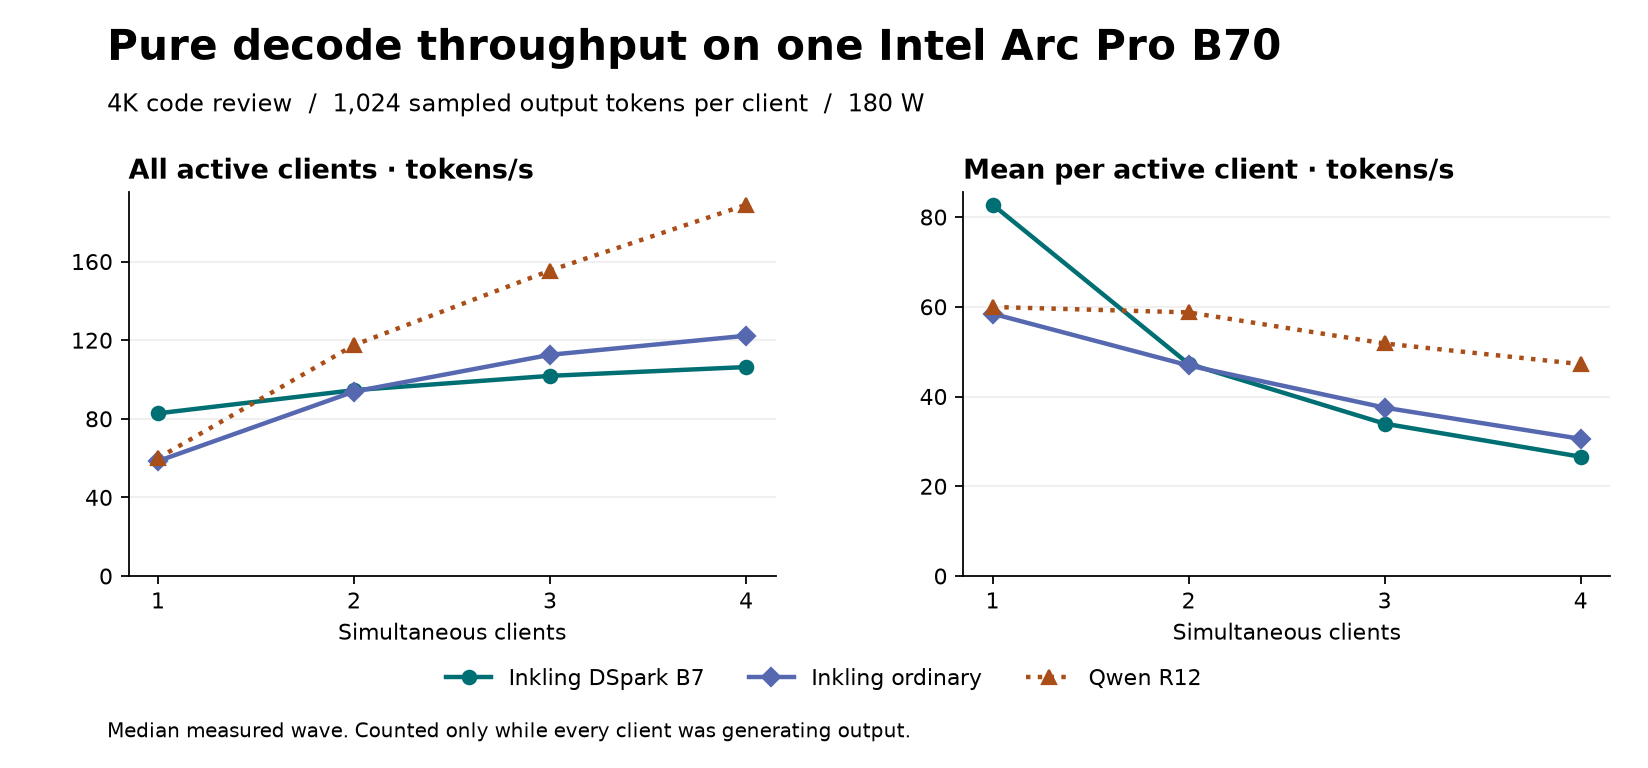
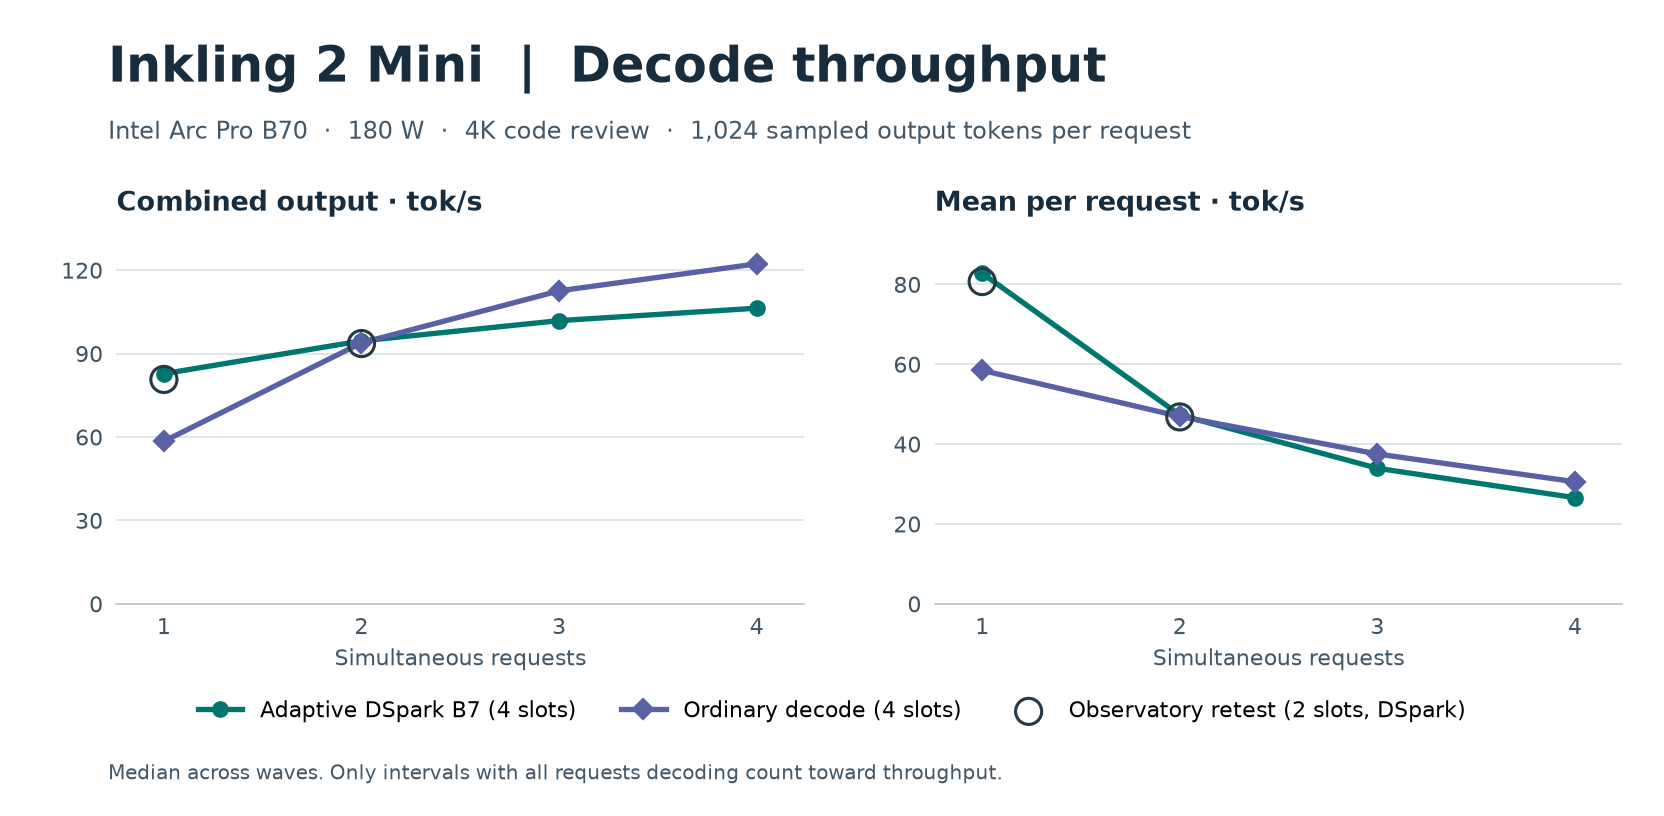
Chart Inkling decode scaling and qualify the two-slot Observatory profile

diff --git a/scripts/report-serving-batch.py b/scripts/report-serving-batch.py
@@ -14,14 +14,17 @@ SCENARIOS = ["phase-4k-c1", *(f"concurrency-4k-c{n}" for n in (2, 3, 4))]
 ARCHIVE = ROOT / "benchmarks/2026-11-23/serving/waves.json"
 
 
-def extract(ordinary, dspark, qwen):
+def extract(ordinary, dspark, qwen, two_slot=None):
     read_wave = run_path(str(ROOT / "scripts/report-serving-matrix.py"))["read_wave"]
     archived = json.loads(ARCHIVE.read_text())["measured"]["Inkling"]
     references = [w for w in archived if w["scenario"] in SCENARIOS]
     if len(references) != 14:
         raise ValueError("Expected five C1 waves and three at C2, C3 and C4")
     profiles, receipts = {}, {}
-    for label, folder in (("Inkling ordinary", ordinary), ("Inkling DSpark B7", dspark), ("Qwen R12", qwen)):
+    folders = {"Inkling ordinary": ordinary, "Inkling DSpark B7": dspark, "Qwen R12": qwen}
+    if two_slot is not None:
+        folders["Observatory DSpark B7"] = two_slot
+    for label, folder in folders.items():
         waves = []
         if label != "Qwen R12":
             run = json.loads((folder / "manifest.json").read_text())
@@ -31,7 +34,11 @@ def extract(ordinary, dspark, qwen):
                                    checkout_head_at_start=receipt["recipe_revision"],
                                    max_num_seqs=run["container"]["max_num_seqs"],
                                    num_speculative_tokens=run["container"]["num_speculative_tokens"])
+            if receipts[label]["max_num_seqs"] != (2 if label == "Observatory DSpark B7" else 4):
+                raise ValueError(f"Unexpected worker capacity in {folder}")
         for ref in references:
+            if label == "Observatory DSpark B7" and ref["scenario"] not in SCENARIOS[:2]:
+                continue
             name = f"{ref['scenario']}-r{ref['repeat']}"
             wave_dir = folder / name if label == "Qwen R12" else folder / "matrix" / name
             source = read_wave(wave_dir)
@@ -51,30 +58,41 @@ def draw(data, path):
     import matplotlib
     matplotlib.use("Agg")
     import matplotlib.pyplot as plt
-    from matplotlib.ticker import MaxNLocator
+    from matplotlib.ticker import MultipleLocator
 
-    fig, axes = plt.subplots(1, 2, figsize=(10.3, 4.8))
-    fig.subplots_adjust(left=.078, right=.977, top=.75, bottom=.25, wspace=.29)
-    fig.text(.065, .922, "Pure decode throughput on one Intel Arc Pro B70", fontsize=19, weight="bold")
-    fig.text(.065, .855, "4K code review  /  1,024 sampled output tokens per client  /  180 W", fontsize=11)
-    styles = [("Inkling DSpark B7", "#006f73", "o", "-"), ("Inkling ordinary", "#5668b0", "D", "-"),
-              ("Qwen R12", "#a94e18", "^", ":")]
+    fig, axes = plt.subplots(1, 2, figsize=(10.4, 5.1))
+    fig.subplots_adjust(left=.07, right=.975, top=.72, bottom=.26, wspace=.19)
+    fig.text(.065, .90, "Inkling 2 Mini  |  Decode throughput", fontsize=22, weight="bold", color="#172c3c")
+    fig.text(.065, .83, "Intel Arc Pro B70  ·  180 W  ·  4K code review  ·  1,024 sampled output tokens per request",
+             fontsize=11, color="#435767")
+    styles = [("Inkling DSpark B7", "Adaptive DSpark B7 (4 slots)", "#00766f", "o"),
+              ("Inkling ordinary", "Ordinary decode (4 slots)", "#5a60a6", "D")]
     for ax, field, title in zip(axes, ("aggregate_decode_tps", "mean_decode_tps_per_client"),
-                                ("All active clients · tokens/s", "Mean per active client · tokens/s")):
-        for label, color, marker, line in styles:
-            waves = data["profiles"][label]
+                                ("Combined output", "Mean per request")):
+        for key, legend, color, marker in styles:
+            waves = data["profiles"][key]
             rates = [median(w[field] for w in waves if w["scenario"] == name) for name in SCENARIOS]
-            ax.plot(range(1, 5), rates, color=color, marker=marker, linestyle=line, lw=2, label=label)
-        ax.set_title(title, loc="left", weight="bold", fontsize=12)
+            ax.plot(range(1, 5), rates, color=color, marker=marker, lw=2.4, ms=6.5, label=legend)
+        if "Observatory DSpark B7" in data["profiles"]:
+            waves = data["profiles"]["Observatory DSpark B7"]
+            rates = [median(w[field] for w in waves if w["clients"] == n) for n in (1, 2)]
+            ax.scatter([1, 2], rates, s=138, facecolors="none", edgecolors="#263a45",
+                       linewidths=1.4, zorder=4, label="Observatory retest (2 slots, DSpark)")
+        ax.set_title(title + " · tok/s", loc="left", weight="bold", fontsize=12, color="#172c3c", pad=8)
         ax.set_xticks(range(1, 5))
-        ax.set_xlabel("Simultaneous clients")
-        ax.set_ylim(bottom=0)
-        ax.yaxis.set_major_locator(MaxNLocator(5))
-        ax.spines[["top", "right"]].set_visible(False)
-        ax.grid(axis="y", alpha=.2)
+        ax.set_xlim(.76, 4.24)
+        ax.set_xlabel("Simultaneous requests", color="#435767")
+        ax.set_ylim(0, 135 if field == "aggregate_decode_tps" else 94)
+        ax.yaxis.set_major_locator(MultipleLocator(30 if field == "aggregate_decode_tps" else 20))
+        ax.spines[["top", "right", "left"]].set_visible(False)
+        ax.spines["bottom"].set_color("#bac8cf")
+        ax.tick_params(axis="both", length=0, pad=6, colors="#41535f")
+        ax.set_axisbelow(True)
+        ax.grid(axis="y", color="#dce4e8")
     fig.legend(*axes[0].get_legend_handles_labels(), loc="lower center",
-               bbox_to_anchor=(.5, .075), ncol=3, frameon=False)
-    fig.text(.065, .04, "Median measured wave. Counted only while every client was generating output.", fontsize=9)
+               bbox_to_anchor=(.5, .09), ncol=3, frameon=False)
+    fig.text(.065, .045, "Median across waves. Only intervals with all requests decoding count toward throughput.",
+             fontsize=9, color="#435767")
     fig.savefig(path, dpi=160)
     plt.close(fig)
 
@@ -84,13 +102,16 @@ if __name__ == "__main__":
     p.add_argument("--ordinary", type=Path)
     p.add_argument("--dspark", type=Path)
     p.add_argument("--reference-run", type=Path)
+    p.add_argument("--two-slot", type=Path, help="Optional DSpark production retest on a two-slot worker.")
     p.add_argument("--out", type=Path, default=ROOT / "benchmarks/2026-11-23/batching")
     args = p.parse_args()
     raw = (args.ordinary, args.dspark, args.reference_run)
     if any(raw) and not all(raw):
         p.error("Provide all three raw run directories or none")
+    if args.two_slot and not all(raw):
+        p.error("--two-slot requires the raw run directories")
     args.out.mkdir(exist_ok=True, parents=True)
     dest = args.out / "waves.json"
     if all(raw):
-        dest.write_text(json.dumps(extract(*raw), indent=2) + "\n")
+        dest.write_text(json.dumps(extract(*raw, args.two_slot), indent=2) + "\n")
     draw(json.loads(dest.read_text()), args.out / "serving-4k.png")

diff --git a/scripts/bench-serving-matrix.py b/scripts/bench-serving-matrix.py
@@ -102,16 +102,21 @@ def main():
     parser.add_argument("--container", default="inkling2-vllm-exl3")
     subset = parser.add_mutually_exclusive_group()
     subset.add_argument("--batching-4k", action="store_true",
-                        help="Report pure decode at 4K with one through four simultaneously generating clients.")
+                        help="Report pure decode at 4K from one client up to the configured slot count.")
+    parser.add_argument("--batching-slots", choices=(2, 4), type=int,
+                        help="Worker slots for the 4K sweep (default: 4).")
     subset.add_argument(
         "--isolated-prefix",
         action="store_true",
         help="Only the three 64K cold/warm requests; start a fresh engine first.",
     )
-    parser.add_argument("--ordinary", action="store_true", help="Use ordinary decode for the four-slot 4K sweep.")
+    parser.add_argument("--ordinary", action="store_true", help="Use ordinary decode for the 4K batching sweep.")
     args = parser.parse_args()
     if args.ordinary and not args.batching_4k:
         parser.error("--ordinary requires --batching-4k")
+    if args.batching_slots is not None and not args.batching_4k:
+        parser.error("--batching-slots requires --batching-4k")
+    slots = (args.batching_slots or 4) if args.batching_4k else 1
     for filename, expected in PINNED.items():
         if hashlib.sha256((args.reference_repo / filename).read_bytes()).hexdigest() != expected:
             raise ValueError(f"Reference harness mismatch: {filename}")
@@ -136,6 +141,7 @@ def main():
         cases = [s for s in cases if s.name == "phase-4k-c1" or s.name.startswith("concurrency-4k-")]
         if sorted(s.concurrency for s in cases) != [1, 2, 3, 4]:
             raise ValueError("Incomplete 4K reference sweep")
+        cases = [s for s in cases if s.concurrency <= slots]
     out = args.output
     out.mkdir(parents=True, exist_ok=False)
     fixtures = out / "adapted-inputs"
@@ -150,7 +156,6 @@ def main():
     models = bench.http_json(args.base, "/v1/models")
     if not any(m["id"] == MODEL for m in models["data"]):
         raise ValueError("Selected endpoint does not serve Inkling")
-    slots = 4 if args.batching_4k else 1
     width = None if args.ordinary else 7
     if (config["max_num_seqs"], config["num_speculative_tokens"], config["max_model_len"]) != (slots, width, 262144):
         raise ValueError(f"Expected {slots} slots, draft width {width}, and 262144 context")

diff --git a/benchmarks/2026-11-23/batching/README.md b/benchmarks/2026-11-23/batching/README.md
@@ -8,16 +8,20 @@ During decode the native XMX attention kernel uses per-request query boundaries 
 
 ![Pure decode throughput for all active clients and per active client](serving-4k.png)
 
-| Active clients | Ordinary total tok/s | Ordinary per client | DSpark B7 total tok/s | DSpark B7 per client | Qwen R12 total tok/s | Qwen per client |
+Both modes below ran with four available slots. Rates are output tokens per second. Each speedup uses the single-request median for the same mode.
+
+| Active requests | DSpark B7 total | Per request | Total vs. 1 | Ordinary total | Per request | Total vs. 1 |
 | ---: | ---: | ---: | ---: | ---: | ---: | ---: |
-| 1 | 58.5 | 58.5 | 82.8 | 82.8 | 60.0 | 60.0 |
-| 2 | 93.9 | 46.9 | 94.6 | 47.3 | 117.5 | 58.8 |
-| 3 | 112.6 | 37.5 | 101.8 | 33.9 | 155.5 | 51.8 |
-| 4 | 122.3 | 30.6 | 106.3 | 26.6 | 188.9 | 47.2 |
+| 1 | 82.8 | 82.8 | 1.00× | 58.5 | 58.5 | 1.00× |
+| 2 | 94.6 | 47.3 | 1.14× | 93.9 | 46.9 | 1.61× |
+| 3 | 101.8 | 33.9 | 1.23× | 112.6 | 37.5 | 1.93× |
+| 4 | 106.3 | 26.6 | 1.28× | 122.3 | 30.6 | 2.09× |
+
+On the deployed two-slot worker, the same DSpark replay reached **80.7 tok/s** for one request and **93.6 tok/s combined** for two (**46.8 tok/s per request**, 1.16× the single-request throughput). Open circles mark this retest.
 
 For each wave, the common decode window begins after every stream has emitted text and ends by the earliest final text event. The report trims a monitor sample from each edge. It sums engine generation-token deltas and elapsed time across adjacent samples with all clients running, zero waiting requests, and no intervening prefill, completion or preemption. Dividing those tokens by those seconds gives aggregate pure decode. The per-client column is that rate divided by the number of active clients.
 
-All three runs used identical R12 code-review prompts and sampling settings. The nominal 4K input contained 3,864–5,514 Inkling tokens. Each client generated 1,024 tokens. Thinking was disabled in this synthetic comparison. Medium thinking with a cumulative per-request budget is available in the coding profile. Each Inkling mode completed 42 requests across 18 waves. The table reports medians of five measured C1 waves and three waves each at C2, C3 and C4. The four warm-up waves are excluded. The ordinary 4K run preceded the long-context draft-memory fix. The DSpark figures include it. The receipts record the loaded file hashes for both workers. [Token counts and sampled decode seconds for each wave](waves.json)
+Both decode modes used identical R12 code-review prompts and sampling settings. The nominal 4K input contained 3,864–5,514 Inkling tokens. Each client generated 1,024 tokens. Thinking was disabled in this synthetic comparison. Medium thinking with a cumulative per-request budget is available in the coding profile. Each Inkling mode completed 42 requests across 18 waves. The table reports medians of five measured C1 waves and three waves each at C2, C3 and C4. The four warm-up waves are excluded. The ordinary 4K run preceded the long-context draft-memory fix. The DSpark figures include it. The receipts record the loaded file hashes for both workers. [Token counts and sampled decode seconds for each wave](waves.json)
 
 ## Single-client check against the long-context sweep
 
@@ -33,6 +37,7 @@ The original long-context plot uses the engine's native decode duration for the 
 
 ## Correctness and capacity
 
+- On the two-slot Observatory worker, four simultaneous arrivals reached a peak of two running and two waiting. All four returned the expected output. The cold/warm control also verified prefix reuse, overlapping decode and recovery after a client disconnect.
 - Ordinary and adaptive B7 each reproduced four independent 128-token greedy control streams. The four cache hits contained 256, 448, 320 and 560 tokens. A client disconnect preserved the other response and the replacement request. Six simultaneous arrivals exercised slot turnover. The deployed four-slot service repeated these checks.
 - With four 61,440-token prompts, every request retrieved its own key and generated 384 tokens. All four streams generated simultaneously for 5.24 s. Two 139,264-token prompts exceeded the shared target pool. One waited while the other ran, both retrieved the right key, and the preemption count stayed at zero. This last case had exhausted GPU resources before the draft-storage and graph changes.
 - The 74,690-token prefix regression produced identical 1,024-token output and visible-text hashes on the cold request, two resends and a new cache salt. Both resends reused 74,672 tokens. Changing the salt gave a clean miss.
@@ -60,12 +65,14 @@ python3 scripts/bench-serving-matrix.py --batching-4k --reference-repo "$QWEN" \
   --reference-run "$R12" --base http://127.0.0.1:8093 --output results/batch-dspark
 ```
 
-Restart with `bash scripts/serve-coding-agent.sh ordinary` and run the same replay with `--ordinary` and `--output results/batch-ordinary`. Then generate the comparison and run the streaming lifecycle check.
+Restart with `bash scripts/serve-coding-agent.sh ordinary` and run the same replay with `--ordinary` and `--output results/batch-ordinary`. Then generate the chart and run the streaming lifecycle check.
 
 ```bash
 uv run --with matplotlib==3.11.2 python scripts/report-serving-batch.py \
   --ordinary results/batch-ordinary --dspark results/batch-dspark --reference-run "$R12"
 python3 scripts/check-serving-batch.py --clients 4
 ```
+
+To reproduce the Observatory points, start a fresh DSpark worker with the same environment and `INKLING2_MAX_SEQS=2`. Against that worker, use the same replay command with `--batching-slots 2` and a fresh output directory. Pass that directory to the chart generator with `--two-slot`. To redraw the published figure directly from the archived waves, run `uv run --with matplotlib==3.11.2 python scripts/report-serving-batch.py`.
 
 The coding launcher accepts `INKLING2_MAX_SEQS=1` through `4`. With one slot it selects the single-request cache and kernel path. The configured maximum per request is 262,144 tokens including output. All clients share a physical pool of 263,168 target KV positions on the reference host.

diff --git a/README.md b/README.md
@@ -10,12 +10,25 @@ Run **Inkling 2 Mini on one 32 GB Intel Arc Pro B70** with a **262,144-token con
 | Model | 4-bit EXL3 experts, BF16 dense weights. [Pinned checkpoint](https://huggingface.co/grant-ai/Inkling-2-Mini-EXL3-4bpw/tree/c266f76b68429255e1d6ec151d0aa15f48f6abcc) |
 | Runtime | vLLM 0.33.0 and PyTorch 2.15.0+xpu |
 | Context and cache | 262,144 input and output tokens per request, shared FP8 KV pool, automatic prefix reuse |
-| Serving | Up to four active sequences, 6,144-token prefill chunks, up to seven DSpark proposals per request and round |
+| Serving | Two active requests in the Observatory, up to four in the standalone worker. Prefill chunks of 6,144 tokens and up to seven DSpark proposals per request per round. |
 | API | Chat, images, streamed tool calls and completions at `http://127.0.0.1:8093/v1`. Model ID `inkling2-mini-exl3-b70`. |
 
 ## Concurrent serving at 180 W
 
-With all four clients decoding 4K code-review prompts, the B70 generated **122.3 tok/s with ordinary decode** and **106.3 tok/s with adaptive DSpark B7** in aggregate. With one active client, DSpark achieved **82.8 decode tok/s**. [Pure decode by concurrency, Qwen comparison and validation](benchmarks/2026-11-23/batching/README.md)
+The Observatory serves **two requests at once** with adaptive DSpark B7. Additional arrivals queue until a slot and sufficient KV cache are available. The table shows how decode scales on a worker configured with four slots. Rates are output tokens per second, measured only while every request is decoding.
+
+| Active requests | DSpark B7 total | Per request | Total vs. 1 | Ordinary total | Per request | Total vs. 1 |
+| ---: | ---: | ---: | ---: | ---: | ---: | ---: |
+| 1 | 82.8 | 82.8 | 1.00× | 58.5 | 58.5 | 1.00× |
+| 2 | 94.6 | 47.3 | 1.14× | 93.9 | 46.9 | 1.61× |
+| 3 | 101.8 | 33.9 | 1.23× | 112.6 | 37.5 | 1.93× |
+| 4 | 106.3 | 26.6 | 1.28× | 122.3 | 30.6 | 2.09× |
+
+![Inkling 2 Mini pure decode at 180 W. Combined and mean per-request output throughput for one to four simultaneous requests.](benchmarks/2026-11-23/batching/serving-4k.png)
+
+On the deployed two-slot worker, the same DSpark replay reached **80.7 tok/s** for one request and **93.6 tok/s combined** for two (**46.8 tok/s per request**, 1.16× the single-request throughput). Open circles mark this retest.
+
+Each request used a nominal 4K code-review prompt and generated 1,024 sampled tokens. Values are medians of five measured waves at one request and three at each higher concurrency. [Measurement method, per-wave data and reproduction commands](benchmarks/2026-11-23/batching/README.md)
 
 ## Long-context performance at 180 W
 
@@ -44,7 +57,7 @@ bash scripts/check-sycl.sh paged-fused
 bash scripts/check-sycl.sh paged-batch
 bash scripts/build-loop-control.sh
 
-INKLING2_PREFILL_PROFILE=optimized INKLING2_VISION=1 INKLING2_VISION_FUSED_QKV=1 \
+INKLING2_MAX_SEQS=2 INKLING2_PREFILL_PROFILE=optimized INKLING2_VISION=1 INKLING2_VISION_FUSED_QKV=1 \
   bash scripts/serve-coding-agent.sh dspark
 ```
 

diff --git a/docs/SETUP.md b/docs/SETUP.md
@@ -96,11 +96,11 @@ shares the requested thinking budget across all thinking messages in that
 response, including tokens accepted from DSpark. The next API request gets
 its own budget. Each of up to four active requests owns its local attention, convolution and draft state.
 A finished slot can supply a prefix when the block hashes and caller-provided
-cache salt match. The four slots share model weights and the global KV page pool.
+cache salt match. All slots share model weights and the global KV page pool.
 The reference host reports 263,168 physical KV tokens for all active clients
 combined, with a 262,144-token context limit per request. vLLM queues excess
-work. Set `INKLING2_MAX_SEQS=1` before starting the launcher to select the
-single-slot configuration.
+work. The Observatory sets `INKLING2_MAX_SEQS=2`. The standalone coding launcher
+defaults to four slots and accepts a limit from one through four.
 
 ## llama.cpp and DSpark
 
